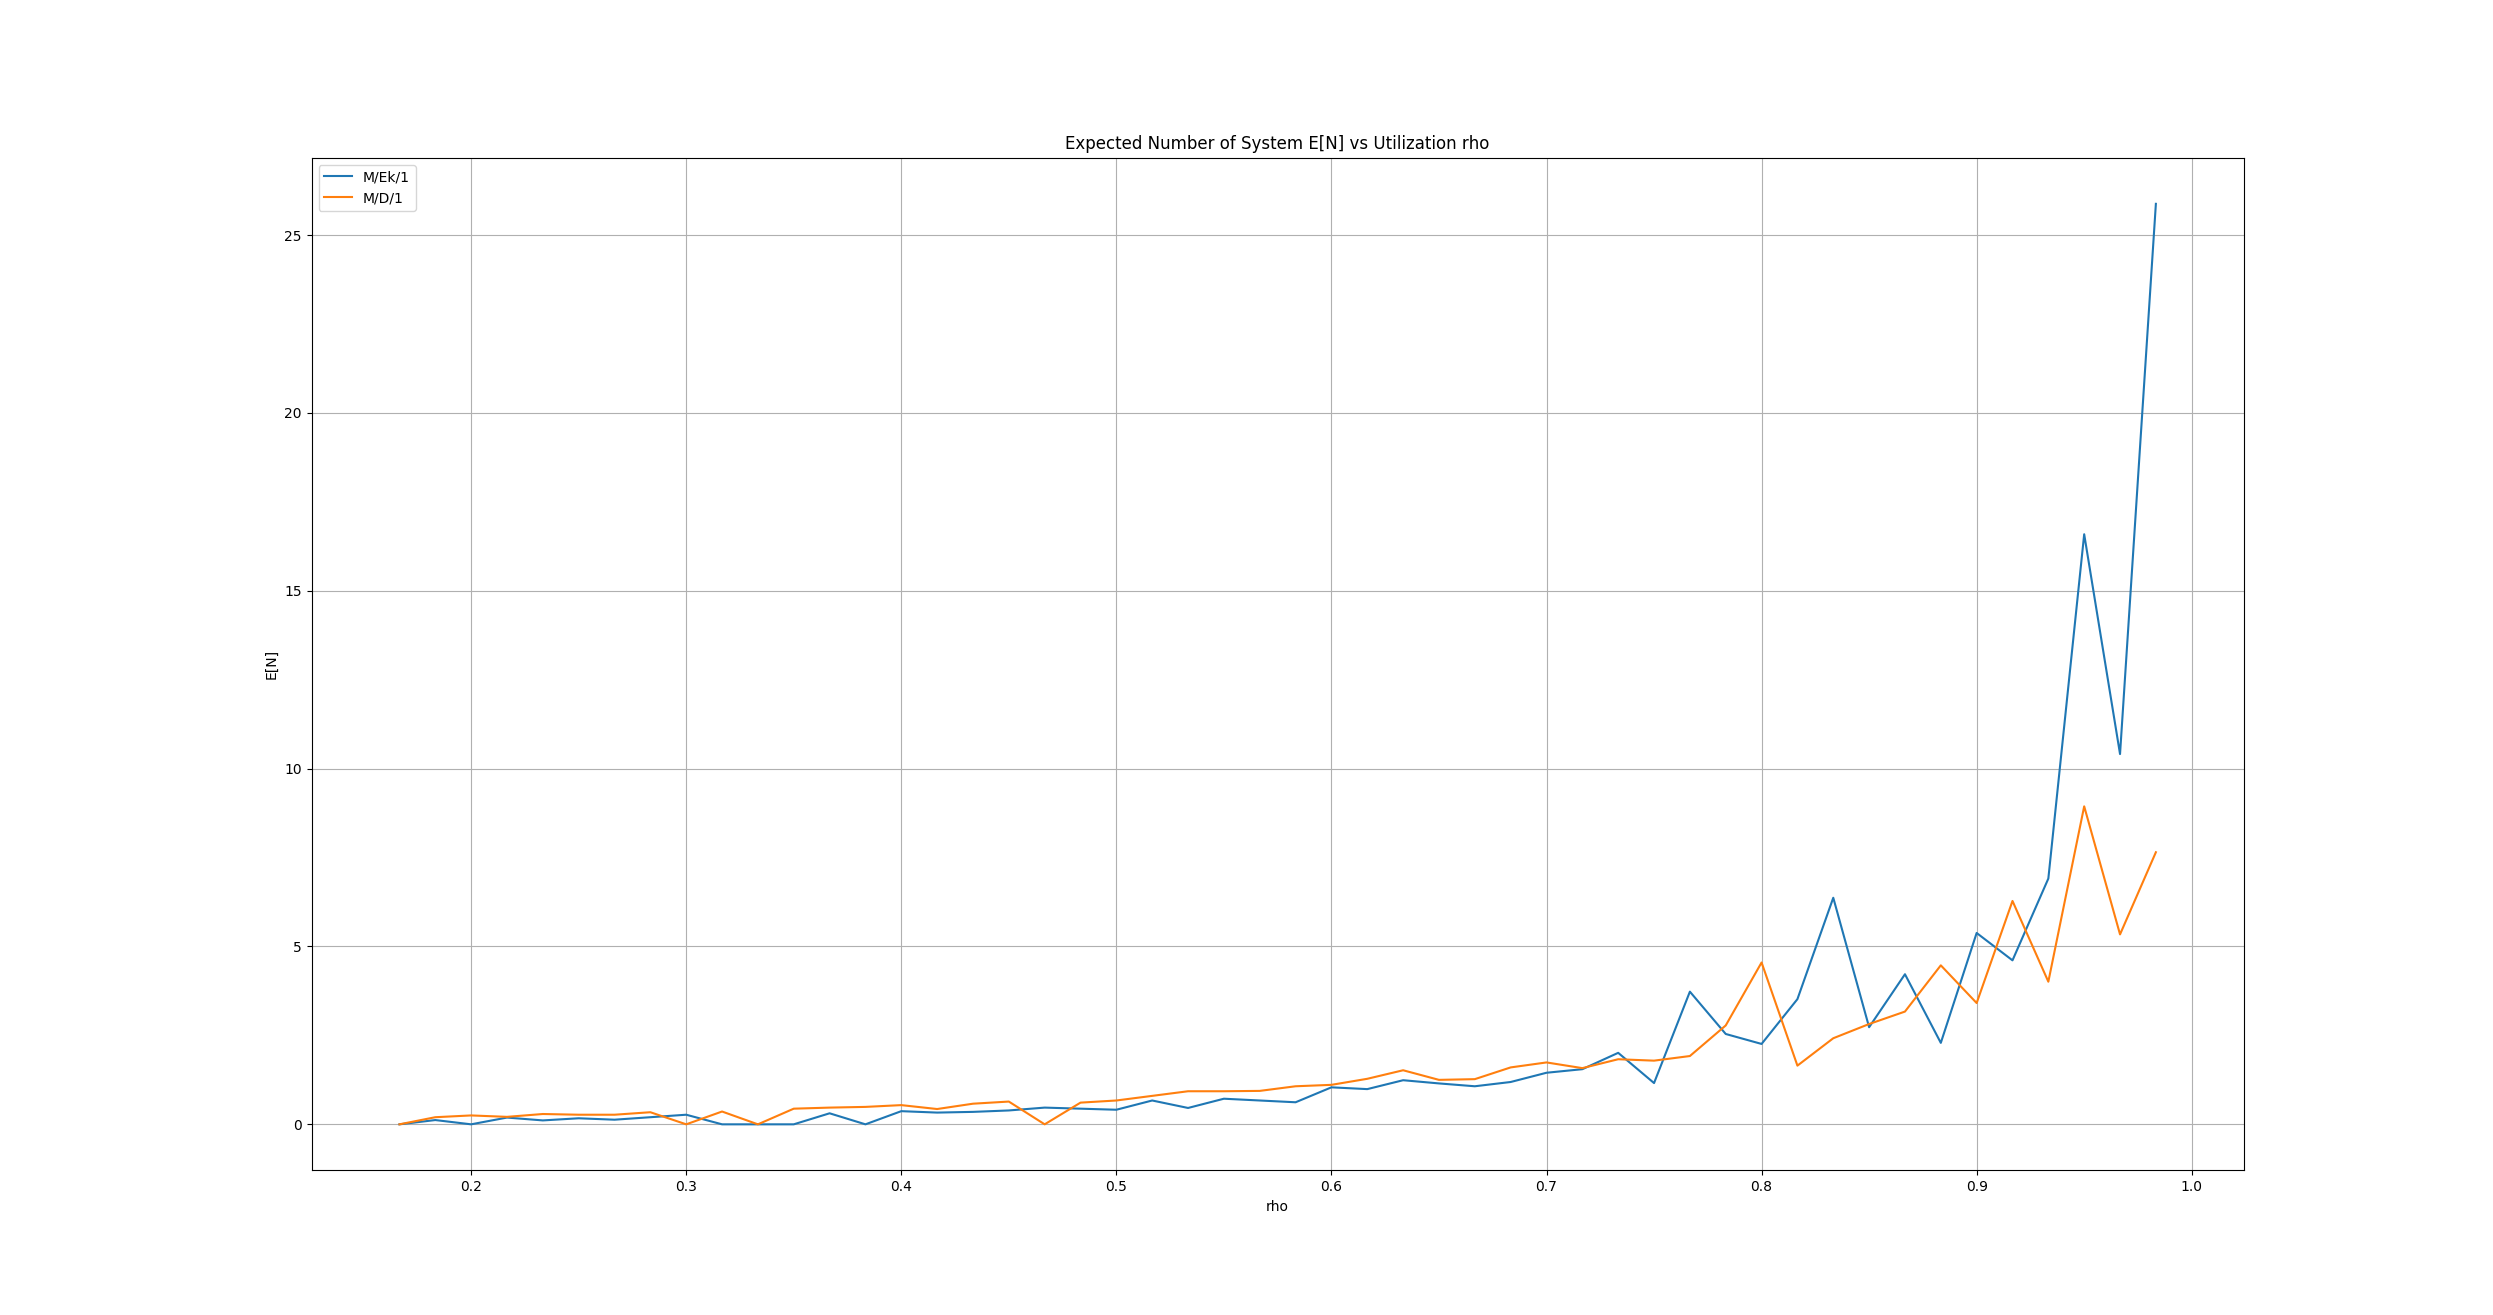
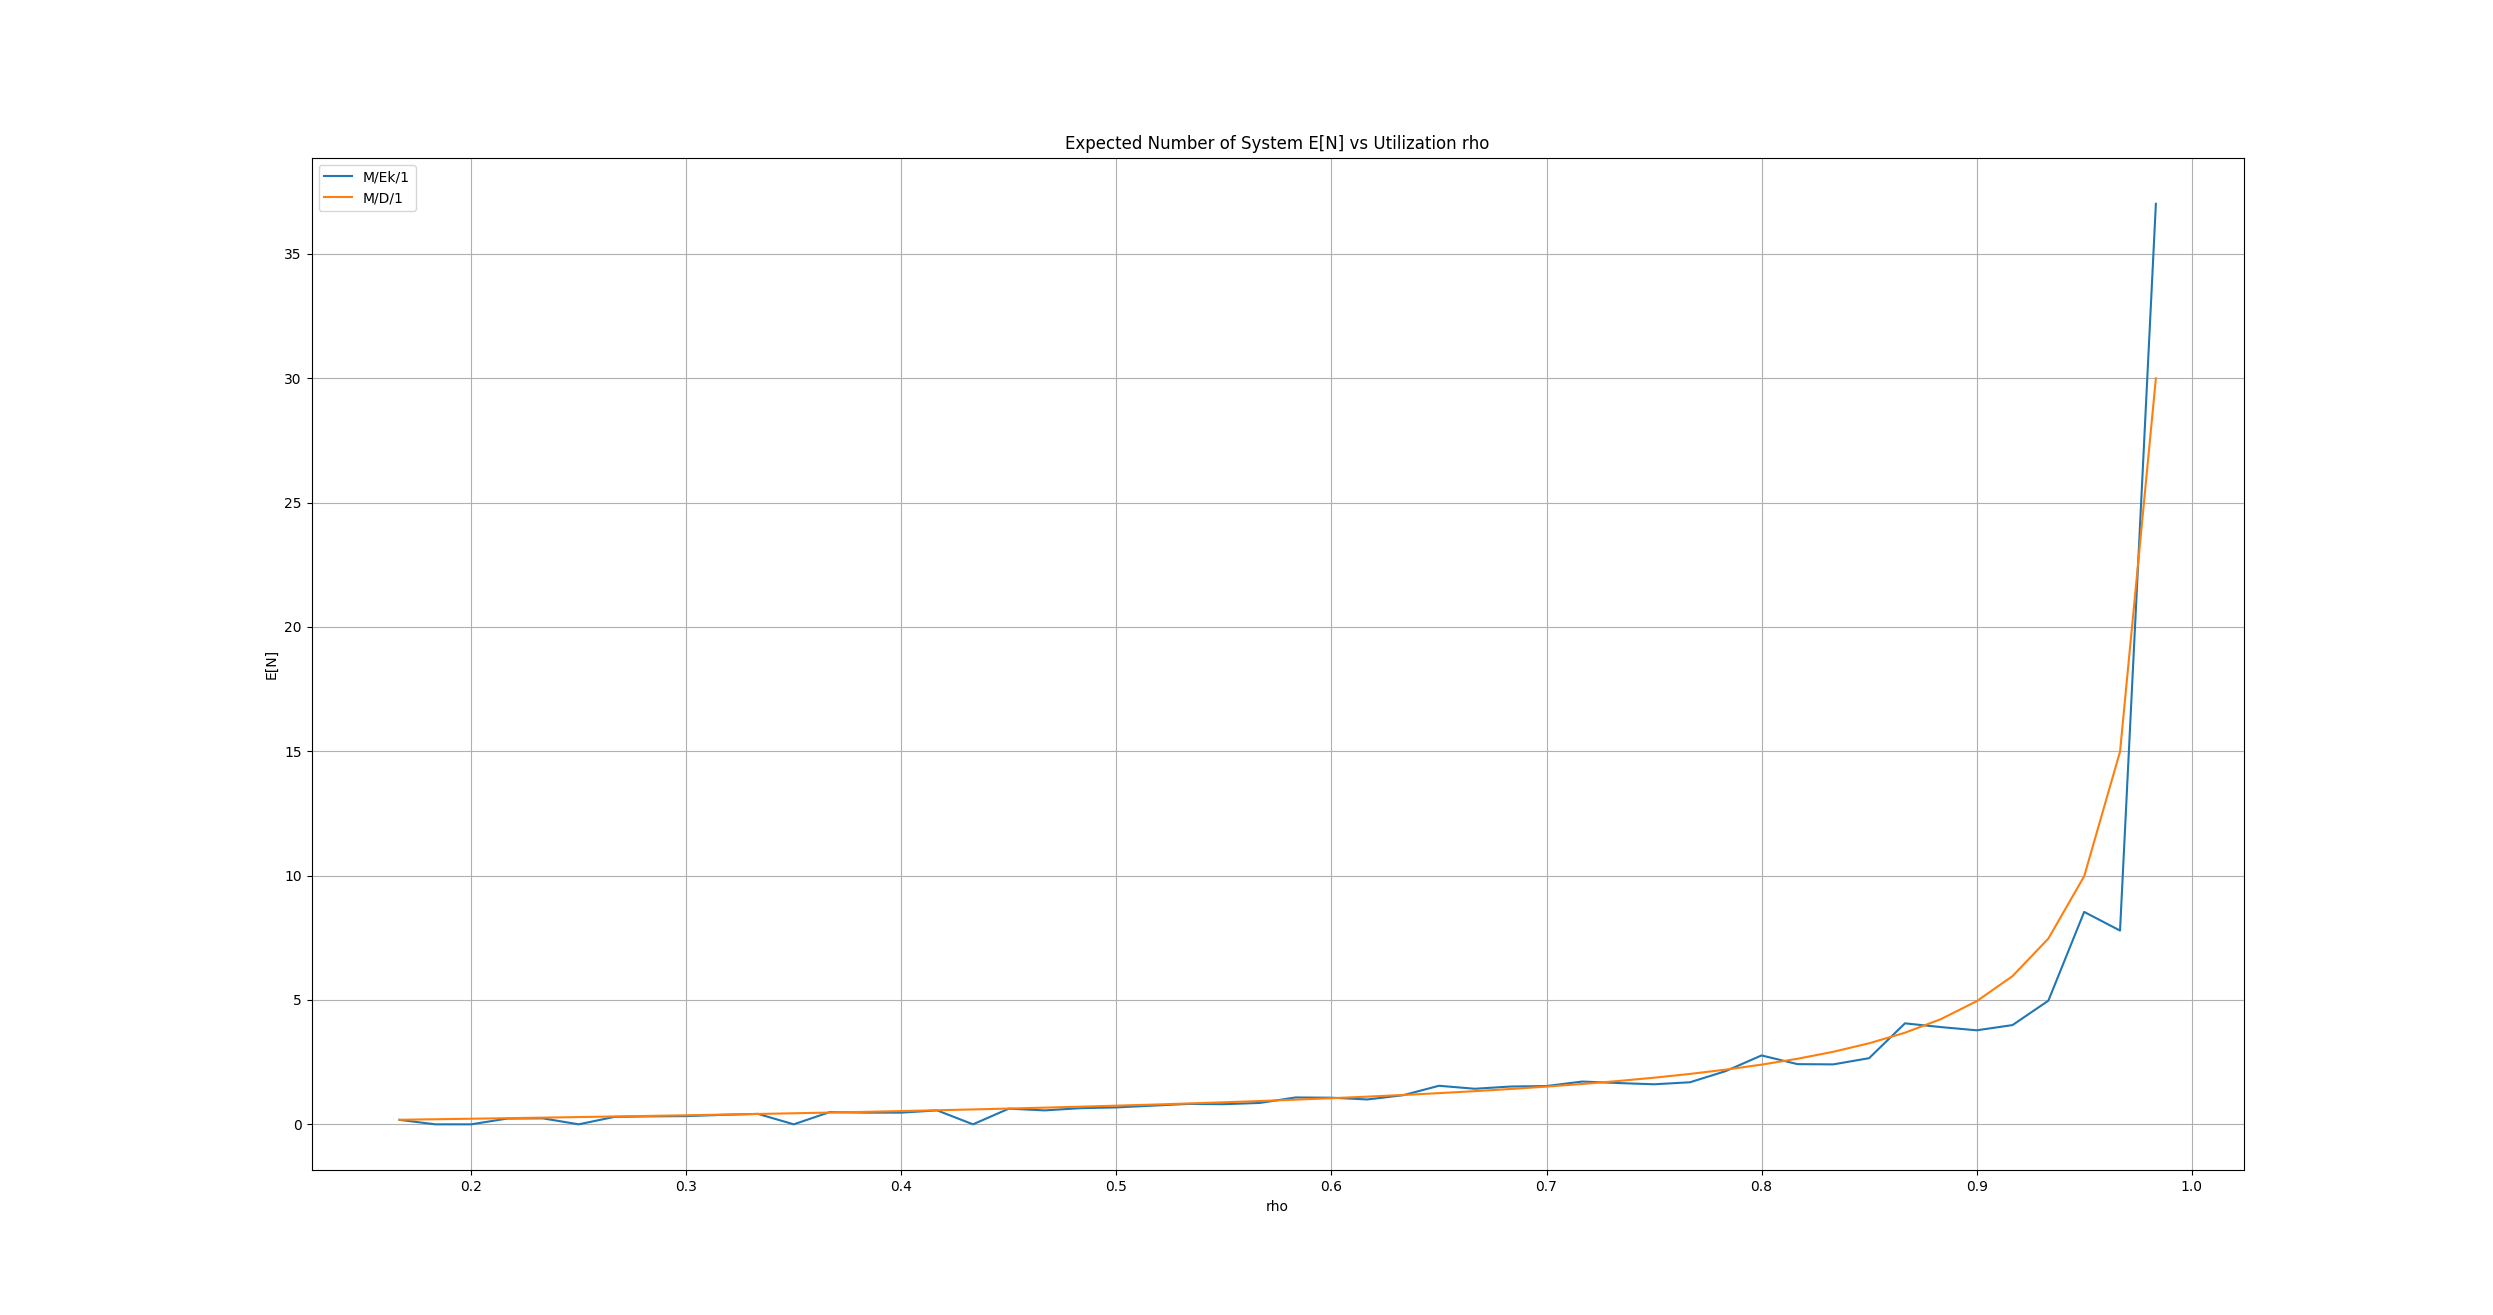
bug fixed

Changed region(s): [[0.4324, 0.6236, 0.8648, 0.8418], [0.8339, 0.2806, 0.8648, 0.5924], [0.1544, 0.8418, 0.4324, 0.873]]

diff --git a/ECE6101_Project.py b/ECE6101_Project.py
@@ -406,95 +406,7 @@ def M_Ek_1(K):
 
 # return expected number of customer in M/Ek/1 queque with different arrival rate
 def EN_M_Ek_1(Lambda, K=40):
-    simulation_time_in_seconds = 100  # simulation time in seconds
-    Mu = 6     # service rate (/second)
-    rho = Lambda/Mu   # utilization 
-    queue = Queue() #  Queue
-    number_customer = int(Poisson(Lambda)*60*60) # total number of customers arrived within in one hour
-    
-   
-    inter_arrival_time = [] # inter arrival time of each customer 
-    for i in range(number_customer):
-        t = (Exponential(1/Lambda))
-        if i == 0:
-            inter_arrival_time.append(0)
-        else:
-            inter_arrival_time.append(t)
-    
-    
-    arrival_time = [] #arrival time of each customer
-    for i in range(number_customer):
-        
-        if i == 0:
-            arrival_time.append(0.0)
-        else:
-            arrival_time.append(arrival_time[i-1]+inter_arrival_time[i])
-    arrival_time  = list(map(lambda x: round(x,1) , arrival_time))
-
-
-    service_time = []  # service time of each customer
-    for i in range(number_customer):
-        t= Erlang(K, Mu)
-        t=round(t,1)
-        service_time.append(t)
-    
-    idle = True # flags that indate wether server is busy
-    N = [] #number of customer in system at each time point
-    finished_customer = 0 # counter of finished customer
-    t = 0.0  # start from 0 second
-
-    # run simulation
-    while t <= simulation_time_in_seconds:
-        
-        # check which customer arrives 
-        for k in range(number_customer):
-            if  arrival_time[k] == t:
-                queue.put(k)
-                
-
-         #  if server is in idle and customer leave queue and enter server
-        if not queue.empty() and idle :
-            customer_in_server = queue.get()
-            idle = False
-
-        # if server is busy
-        if not idle:
-            
-            # decrease service time of customer in server
-            if service_time[customer_in_server] >= 0.1:
-                service_time[customer_in_server] = round(service_time[customer_in_server]-0.1,1)  
-            
-            # finished customer departure server 
-            if service_time[customer_in_server] == 0.0:
-                idle = True
-                finished_customer+=1 # count finished customers
-        
-        # number of customer in Queue and Server at each time point
-
-        n = len(list(queue.queue)) + (1 if not idle else 0)
-        N.append(n)
-
-        # add time point to list
-        t = round(t +0.1, 1)
-
-
-    # Expected number of customer in system
-    counter = Counter(N)
-    n=[]
-    p_n= []
-    counter =dict(sorted(counter.items(), key = lambda x:x[0]))
-    for key, val in counter.items():
-        n.append(key)
-        p_n.append(val/len(N))
-    E_N = list(map(lambda x: x[0]*x[1], list(zip(n,p_n))))
-    E_N= round(sum(E_N),2)
-    
-    return E_N
-
-
-# return expected number of customer in M/D/1 queque with different arrival rate
-def EN_M_D_1(Lambda):
-    simulation_time_in_seconds = 100  # simulation time in seconds
+    simulation_time_in_seconds = 200  # simulation time in seconds
     Mu = 6     # service rate (/second)
     rho = Lambda/Mu   # utilization 
     queue = Queue() #  Queue
@@ -522,7 +434,7 @@ def EN_M_D_1(Lambda):
 
     service_time = []  # service time of each customer
     for i in range(number_customer):
-        t= 1/Mu
+        t= Erlang(K, Mu)
         t=round(t,2)
         service_time.append(t)
     
@@ -549,8 +461,8 @@ def EN_M_D_1(Lambda):
         if not idle:
             
             # decrease service time of customer in server
-            
-            service_time[customer_in_server] = round(service_time[customer_in_server]-0.01,2)  
+            if service_time[customer_in_server] >= 0.01:
+                service_time[customer_in_server] = round(service_time[customer_in_server]-0.01,2)  
             
             # finished customer departure server 
             if service_time[customer_in_server] == 0.00:
@@ -587,9 +499,10 @@ def plot_M_Ek_1_M_D_1():
     rho = []
     for Lambda in np.arange(1,6, 0.1):
         Lambda = round(Lambda,1)
+        Rho = Lambda/6
         E_N1.append(EN_M_Ek_1(Lambda))
-        E_N2.append(EN_M_D_1(Lambda))
-        rho.append(Lambda/6)
+        E_N2.append((Rho/(1-Rho))*(1-Rho/2))
+        rho.append(Rho)
         print("simulation at rho {}".format(Lambda))
     
     # plot rho vs E_N
@@ -605,12 +518,12 @@ def plot_M_Ek_1_M_D_1():
     
 
 
-plot_Prob_Uniform()
+#plot_Prob_Uniform()
 
-plot_Pro_Exp_Poisson()
+#plot_Pro_Exp_Poisson()
 
-MM_1_Queue()
+#MM_1_Queue()
 
-M_Ek_1(4)
+#M_Ek_1(4)
 
 plot_M_Ek_1_M_D_1()
